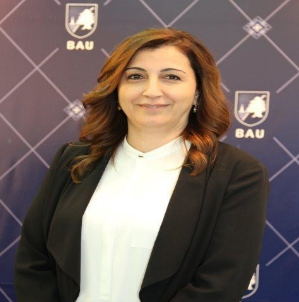
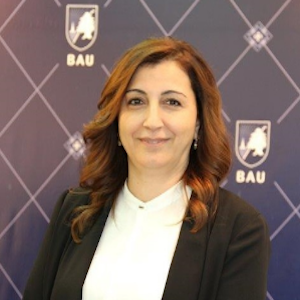
updates

diff --git a/authors/rajaa-fakhoury/index.html b/authors/rajaa-fakhoury/index.html
@@ -310,11 +310,11 @@
 
   <meta property="twitter:site" content="@ShadiAlbarqouni" />
   <meta property="twitter:creator" content="@ShadiAlbarqouni" />
-<meta property="twitter:image" content="https://eeda2023.github.io/authors/rajaa-fakhoury/avatar_hua572aa95fc8813cf1a9f7d1fd485d05b_157226_270x270_fill_lanczos_center_3.png" />
+<meta property="twitter:image" content="https://eeda2023.github.io/authors/rajaa-fakhoury/avatar_hu0cf0752309dc9c502344bab71c43e02d_156199_270x270_fill_lanczos_center_3.png" />
 <meta property="og:site_name" content="EEDA (ايدا)" />
 <meta property="og:url" content="https://eeda2023.github.io/authors/rajaa-fakhoury/" />
 <meta property="og:title" content="Rajaa Fakhoury | EEDA (ايدا)" />
-<meta property="og:description" content="AI Autumn School" /><meta property="og:image" content="https://eeda2023.github.io/authors/rajaa-fakhoury/avatar_hua572aa95fc8813cf1a9f7d1fd485d05b_157226_270x270_fill_lanczos_center_3.png" /><meta property="og:locale" content="en-us" />
+<meta property="og:description" content="AI Autumn School" /><meta property="og:image" content="https://eeda2023.github.io/authors/rajaa-fakhoury/avatar_hu0cf0752309dc9c502344bab71c43e02d_156199_270x270_fill_lanczos_center_3.png" /><meta property="og:locale" content="en-us" />
 
   
 
@@ -691,7 +691,7 @@
       
       <img class="avatar avatar-circle"
            width="270" height="270"
-           src="/authors/rajaa-fakhoury/avatar_hua572aa95fc8813cf1a9f7d1fd485d05b_157226_270x270_fill_lanczos_center_3.png" alt="Rajaa Fakhoury">
+           src="/authors/rajaa-fakhoury/avatar_hu0cf0752309dc9c502344bab71c43e02d_156199_270x270_fill_lanczos_center_3.png" alt="Rajaa Fakhoury">
       
 
       <div class="portrait-title">

diff --git a/schedule/index.html b/schedule/index.html
@@ -725,7 +725,7 @@
 <td></td>
 <td>08:30</td>
 <td>Welcome Note &amp; ML Overview</td>
-<td>Prof. Dr. Shadi Albarqouni</td>
+<td><a href="/authors/shadi-albarqouni">Prof. Dr. Shadi Albarqouni</a></td>
 <td>Ali Rashed Hall, Beirut Campus</td>
 </tr>
 <tr>
@@ -809,7 +809,7 @@
 <td></td>
 <td>13:30</td>
 <td>(Convolutional) Neural Networks (C)NNs</td>
-<td>Prof. Dr. Shadi Albarqouni</td>
+<td><a href="/authors/shadi-albarqouni">Prof. Dr. Shadi Albarqouni</a></td>
 <td>Ali Rashed Hall, Beirut Campus</td>
 </tr>
 <tr>
@@ -837,7 +837,7 @@
 <td></td>
 <td>08:30</td>
 <td>Clustering &amp; Dimensionality Reduction</td>
-<td>TBC</td>
+<td><a href="/authors/hasan-sarhan">Hasan Sarhan</a></td>
 <td>Ali Rashed Hall, Beirut Campus</td>
 </tr>
 <tr>
@@ -893,14 +893,14 @@
 <td></td>
 <td>10:30</td>
 <td>Food Safety</td>
-<td>Dr. Nada El Darra</td>
+<td><a href="/authors/nada-eldarra">Dr. Nada El Darra</a></td>
 <td>Ali Rashed Hall, Beirut Campus</td>
 </tr>
 <tr>
 <td></td>
 <td>11:00</td>
 <td>Clinical Nutrition</td>
-<td>TBC</td>
+<td><a href="/authors/dima-kreidieh">Dr. Dima Kreidieh</a></td>
 <td>Ali Rashed Hall, Beirut Campus</td>
 </tr>
 <tr>

diff --git a/contact/index.html b/contact/index.html
@@ -770,7 +770,7 @@
     
     <li>
       <i class="fa-li fas fa-envelope fa-2x" aria-hidden="true"></i>
-      <span id="person-email"><a href="mailto:...">...</a></span>
+      <span id="person-email"><a href="mailto:shadi%28dot%29albarqouni%28at%29ukbonn.de">shadi(dot)albarqouni(at)ukbonn.de</a></span>
     </li>
     
 
@@ -786,7 +786,7 @@
       
       <li>
         <i class="fa-li fas fa-map-marker fa-2x" aria-hidden="true"></i>
-        <span id="person-address">Tarik El Jadida, Beirut, Beirut 94305</span>
+        <span id="person-address">Tarik El Jadida, Beirut, Beirut 11-50-20</span>
       </li>
     
 
@@ -811,7 +811,7 @@
     <input id="map-provider" value="mapnik">
     <input id="map-lat" value="33.873439553284676">
     <input id="map-lng" value="35.49691838432929">
-    <input id="map-dir" value="Tarik El Jadida, Beirut, Beirut 94305">
+    <input id="map-dir" value="Tarik El Jadida, Beirut, Beirut 11-50-20">
     <input id="map-zoom" value="15">
     <input id="map-api-key" value="">
   </div>

diff --git a/people/index.html b/people/index.html
@@ -1011,7 +1011,7 @@
         
         
           
-          <a href="/authors/rajaa-fakhoury/"><img width="270" height="270" loading="lazy" class="avatar avatar-circle" src="/authors/rajaa-fakhoury/avatar_hua572aa95fc8813cf1a9f7d1fd485d05b_157226_270x270_fill_lanczos_center_3.png" alt="Avatar"></a>
+          <a href="/authors/rajaa-fakhoury/"><img width="270" height="270" loading="lazy" class="avatar avatar-circle" src="/authors/rajaa-fakhoury/avatar_hu0cf0752309dc9c502344bab71c43e02d_156199_270x270_fill_lanczos_center_3.png" alt="Avatar"></a>
         
 
         <div class="portrait-title">
